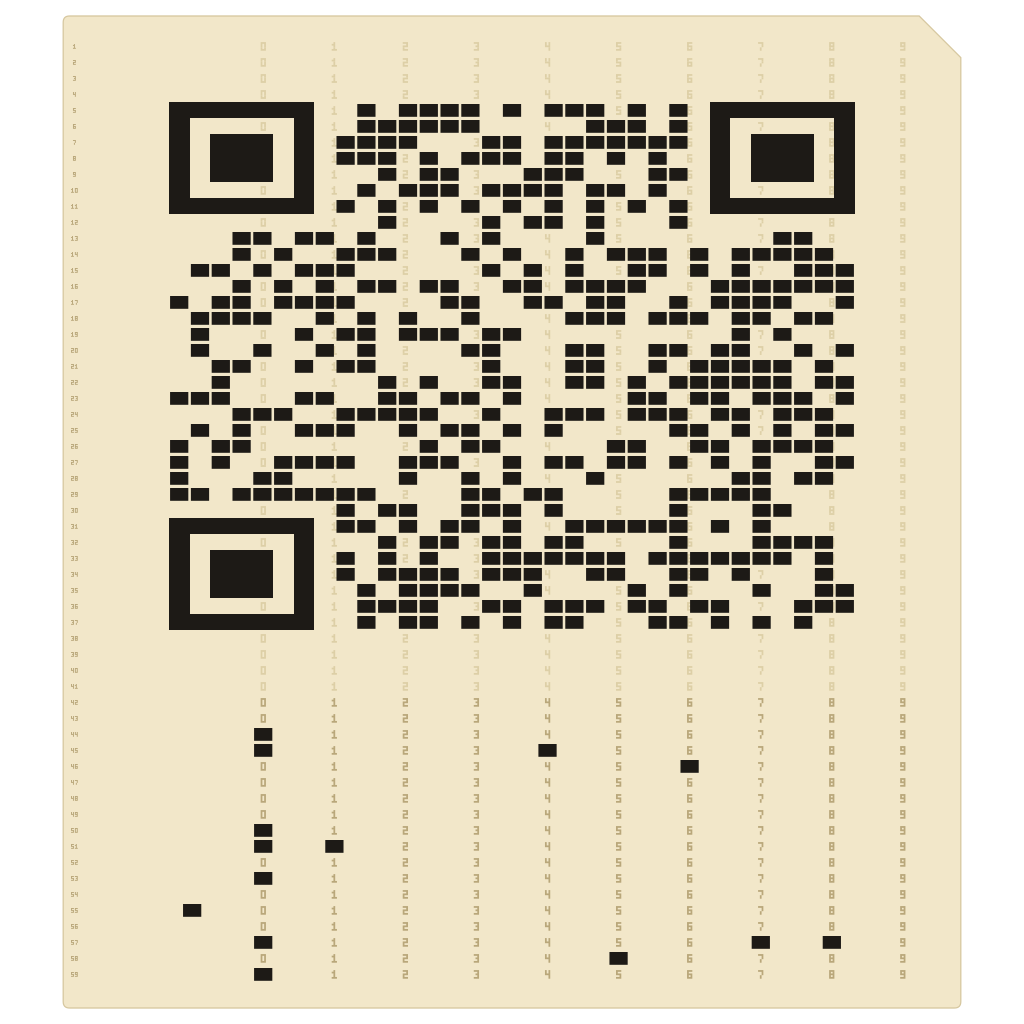
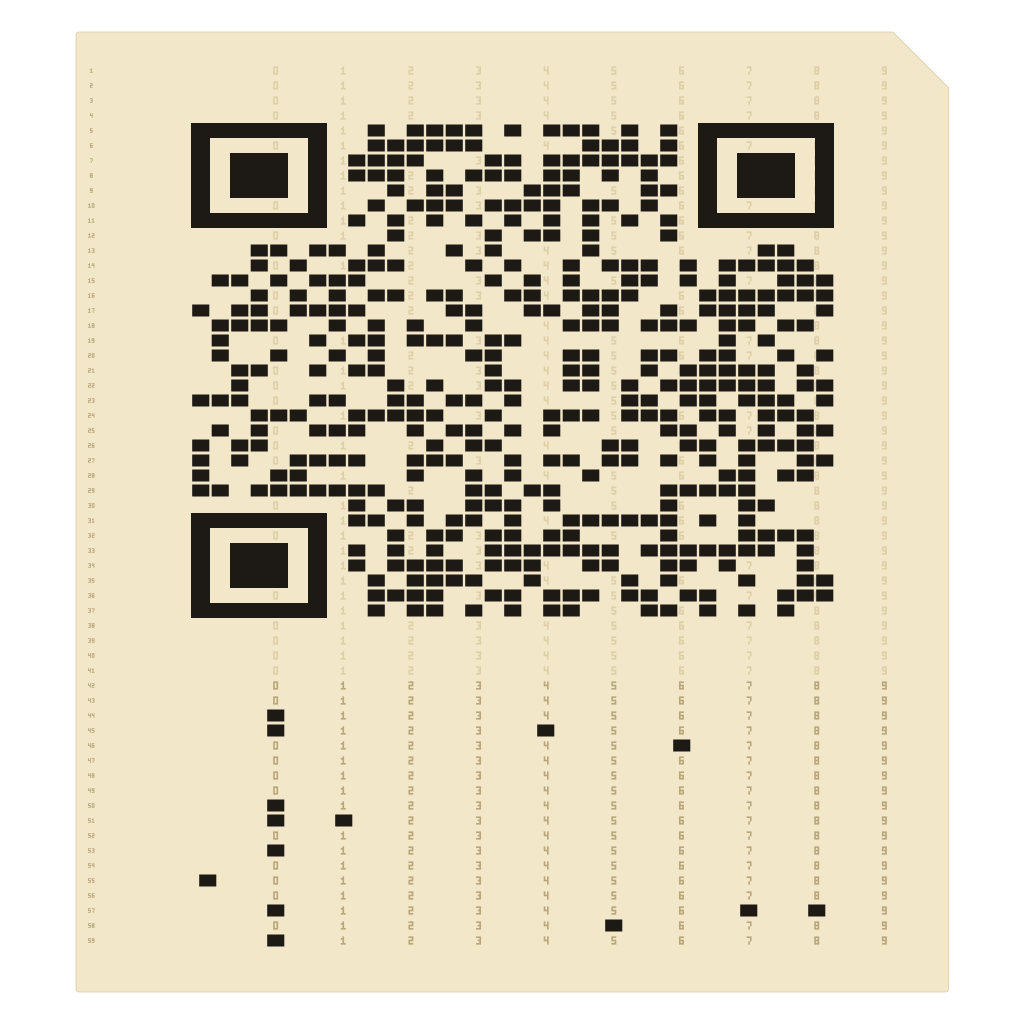
fix: the Punch Card keeps one shape at every text length

diff --git a/src/cards.ts b/src/cards.ts
@@ -1,12 +1,12 @@
 // Punch Card (the mjs collection) and Scantron (merichar). Both keep the
-// code dark on light, lay out in module units with whole pixels per module
-// and letter their own lines inside their designs, so the image stays
-// square.
+// code dark on light with whole pixels per module and letter their own lines
+// inside their designs, so the image stays square.
 import type { BitMatrix } from "qrcode";
 import { CAP, emFor, ems, lettering, round } from "./lettering";
 import { PIXEL_FONT, PIXEL_HEIGHT, PIXEL_WIDTH } from "./pixelfont";
 import { fit, type Lines } from "./screens";
 import { darkAt, svgOpen, unit } from "./boards";
+import { MIN_MODULE } from "./styles";
 
 // Characters in the pixel font, `pixel` modules per font pixel, the line's
 // left end at x and its top at y; only the rows `from` to `to` of each cell
@@ -79,7 +79,7 @@ const UNDER = "#ddcfa6";
 // each slot leaves `gapX` and `gapY` of card between it and the next. With
 // `solid` set to "reserved", the finder, timing and alignment patterns are
 // punched whole; set to "finders", only the three corner squares.
-// `rows` is the card's length in columns, as a share of its width.
+// `length` is the card's length as a share of its width.
 export const PUNCH: {
   stretch: number;
   gapX: number;
@@ -90,33 +90,57 @@ export const PUNCH: {
 // Whether a module is in one of the three corner squares (with its ring)
 const inFinder = (n: number, x: number, y: number) =>
   (x < 7 && y < 7) || (x >= n - 7 && y < 7) || (x < 7 && y >= n - 7);
+// The card's fixed layout, in hundredths of its width: the side margins, the
+// band for a line of type, the band without one and the clipped corner; and
+// `room`, the fewest rows of data under the code, in modules
+const CARD = { pad: 3.5, typeRow: 6.4, edge: 3.5, clip: 6.4, room: 6 };
+// The card is the same shape and size in the image whatever the text: its
+// width and length are fixed shares of the image, and the code fits inside it
+// with whole pixels per module, so a longer text makes the slots smaller, not
+// the card different. The space under the code is keypunched data.
+function cardBox(size: number) {
+  const { length } = PUNCH,
+    height = Math.floor((size * 105) / 112),
+    width = height / length;
+  return { width, height, u: width / 100 };
+}
+function moduleFor(q: number, u: number, top: number, bottom: number) {
+  const { stretch: s } = PUNCH;
+  return Math.floor(
+    Math.min(((100 - 2 * CARD.pad) * u) / (q * s), ((110 - top - bottom) * u) / (q + CARD.room)),
+  );
+}
 export function punchCard(modules: BitMatrix, size: number, lines: Lines) {
-  const { stretch: s, gapX, gapY, solid, length } = PUNCH,
+  const { stretch: s, gapX, gapY, solid } = PUNCH,
     n = modules.size,
     q = n + 8,
-    pad = 1.4,
-    typeRow = 2.6,
-    top = lines.above ? typeRow : 1.4,
-    cardWidth = round(q * s + 2 * pad),
-    cardHeight = Math.max(
-      Math.round(cardWidth * length),
-      Math.ceil(top + q + 6 + (lines.below ? typeRow : 1.4)),
-    ),
-    span = cardHeight + 1,
-    k = fit("punch-card", span, size),
-    left = round((size - cardWidth * k) / 2),
-    topPx = Math.round((size - cardHeight * k) / 2),
+    top = lines.above ? CARD.typeRow : CARD.edge,
+    bottom = lines.below ? CARD.typeRow : CARD.edge;
+  if (!Number.isInteger(size) || size > 2048) fit("punch-card", 1, size);
+  // The smallest width with at least MIN_MODULE pixels per module
+  let minimum = 64;
+  while (moduleFor(q, cardBox(minimum).u, top, bottom) < MIN_MODULE["punch-card"]) minimum++;
+  if (size < minimum) fit("punch-card", minimum / MIN_MODULE["punch-card"], size);
+  const { width: cardWidth, height: cardHeight, u } = cardBox(size),
+    k = moduleFor(q, u, top, bottom),
+    // A slot's horizontal pitch
+    w = s * k,
+    left = Math.round((size - cardWidth) / 2),
+    topPx = Math.round((size - cardHeight) / 2),
     dark = darkAt(modules),
-    ox = pad + 4 * s,
-    oy = top + 4,
-    clip = 2.6;
+    // The code (with its quiet zone) centered across the card, its rows
+    // starting under the top band
+    ox = Math.round((cardWidth - n * w) / 2),
+    oy = Math.round(top * u) + 4 * k,
+    clip = CARD.clip * u,
+    r = 0.4 * u;
   // The card, its top right corner cut
-  const card = `<path d="M.4 0H${round(cardWidth - clip)}L${cardWidth} ${clip}V${round(cardHeight - 0.4)}q0 .4-.4 .4H.4q-.4 0-.4-.4V.4q0-.4 .4-.4z" fill="${STOCK}" stroke="${STOCK_EDGE}" stroke-width=".08"/>`;
+  const card = `<path d="M${round(r)} 0H${round(cardWidth - clip)}L${round(cardWidth)} ${round(clip)}V${round(cardHeight - r)}q0 ${round(r)}-${round(r)} ${round(r)}H${round(r)}q-${round(r)} 0-${round(r)}-${round(r)}V${round(r)}q0-${round(r)} ${round(r)}-${round(r)}z" fill="${STOCK}" stroke="${STOCK_EDGE}" stroke-width="${round(0.08 * u)}"/>`;
   // A slot over a module's cell, or the cell whole
   const slot = (x: number, y: number, whole = false) => {
-    const gx = whole ? 0 : gapX / 2,
-      gy = whole ? 0 : gapY / 2;
-    return `M${round(x + gx)} ${round(y + gy)}h${round(s - 2 * gx)}v${round(1 - 2 * gy)}h-${round(s - 2 * gx)}z`;
+    const gx = whole ? 0 : (gapX * k) / 2,
+      gy = whole ? 0 : (gapY * k) / 2;
+    return `M${round(x + gx)} ${round(y + gy)}h${round(w - 2 * gx)}v${round(k - 2 * gy)}h-${round(w - 2 * gx)}z`;
   };
   let holes = "",
     whole = "";
@@ -127,8 +151,8 @@ export function punchCard(modules: BitMatrix, size: number, lines: Lines) {
           (solid === "reserved" && modules.isReserved(y, x)) ||
           (solid === "finders" && inFinder(n, x, y))
         )
-          whole += slot(ox + x * s, oy + y, true);
-        else holes += slot(ox + x * s, oy + y);
+          whole += slot(ox + x * w, oy + y * k, true);
+        else holes += slot(ox + x * w, oy + y * k);
       }
   // The data's punches vary with the code, the same for the same text:
   // seeded from the code's modules
@@ -155,18 +179,18 @@ export function punchCard(modules: BitMatrix, size: number, lines: Lines) {
   };
   // The twelve lanes across the card, the 0 to 9 lanes printed with their
   // digits in every column, a code row to a column
-  const laneLeft = pad,
-    lane = (cardWidth - 2 * pad) / 12,
-    firstRow = top,
-    columns = Math.floor(cardHeight - firstRow - (lines.below ? typeRow : 1.4)),
-    dot = Math.min(lane * 0.07, 0.11);
+  const laneLeft = CARD.pad * u,
+    lane = ((100 - 2 * CARD.pad) * u) / 12,
+    firstRow = Math.round(top * u),
+    columns = Math.floor((cardHeight - firstRow - bottom * u) / k),
+    dot = Math.min(lane * 0.07, 0.11 * k);
   let print = "",
     under = "";
   for (let c = 0; c < columns; c++) {
-    const cy = firstRow + c + 0.5,
+    const cy = firstRow + (c + 0.5) * k,
       inCode = c < q;
-    for (let r = 2; r < 12; r++) {
-      const digit = tiny(String(r - 2), laneLeft + (r + 0.5) * lane, cy, dot);
+    for (let lr = 2; lr < 12; lr++) {
+      const digit = tiny(String(lr - 2), laneLeft + (lr + 0.5) * lane, cy, dot);
       if (inCode) under += digit;
       else print += digit;
     }
@@ -175,25 +199,26 @@ export function punchCard(modules: BitMatrix, size: number, lines: Lines) {
     // or 0), now and then a third punch in row 8, and some columns blank.
     // Only the lanes within the code's left and right edges are punched.
     if (!inCode)
-      for (const r of keypunch()) {
-        const x = laneLeft + (r + 0.5) * lane - s / 2;
-        if (x >= ox && x + s <= ox + n * s) holes += slot(x, firstRow + c);
+      for (const lr of keypunch()) {
+        const x = Math.round(laneLeft + (lr + 0.5) * lane - w / 2);
+        if (x >= ox && x + w <= ox + n * w) holes += slot(x, firstRow + c * k);
       }
     // Column numbers down the left edge
-    print += tiny(String(c + 1), pad * 0.5, cy, dot * 0.55);
+    print += tiny(String(c + 1), laneLeft * 0.5, cy, dot * 0.55);
   }
   // The keypunch's printing: characters along the top and bottom edges
   let type = "";
+  const em = u * (CARD.typeRow / 2.6);
   const typeLine = (text: string, y: number) => {
     const pixel = Math.min(
-      1.5 / PIXEL_HEIGHT,
-      (cardWidth - clip - 2) / ([...text].length * PIXEL_WIDTH),
+      (1.5 * em) / PIXEL_HEIGHT,
+      (cardWidth - clip - 2 * em) / ([...text].length * PIXEL_WIDTH),
     );
-    type += pixelText(text, 1, y, pixel, 1, 13);
+    type += pixelText(text, em, y, pixel, 1, 13);
   };
-  if (lines.above) typeLine(lines.above, 0.6);
-  if (lines.below) typeLine(lines.below, cardHeight - typeRow + 0.7);
-  return `${svgOpen(size, "white")}<g transform="translate(${left} ${topPx}) scale(${k})">${card}<path d="${under}" fill="${UNDER}"/><path d="${print}" fill="${PRINT}"/><path d="${holes}" fill="${HOLE}"/>${whole ? `<path d="${whole}" fill="${HOLE}" shape-rendering="crispEdges"/>` : ""}${type ? `<path d="${type}" fill="${TYPE}"/>` : ""}</g></svg>`;
+  if (lines.above) typeLine(lines.above, 0.6 * em);
+  if (lines.below) typeLine(lines.below, cardHeight - CARD.typeRow * u + 0.7 * em);
+  return `${svgOpen(size, "white")}<g transform="translate(${left} ${topPx})">${card}<path d="${under}" fill="${UNDER}"/><path d="${print}" fill="${PRINT}"/><path d="${holes}" fill="${HOLE}"/>${whole ? `<path d="${whole}" fill="${HOLE}" shape-rendering="crispEdges"/>` : ""}${type ? `<path d="${type}" fill="${TYPE}"/>` : ""}</g></svg>`;
 }
 
 // Scantron: a machine-scored quiz strip, white with green printing: a

diff --git a/test/qr.test.ts b/test/qr.test.ts
@@ -286,6 +286,36 @@ describe("unlisted collections", () => {
       expect(await decode(image)).toBe(text);
     });
 
+  it("keeps the punch card the same size whatever the text's length", async () => {
+    // The box around everything that isn't the white background
+    const cardBox = async (image: Buffer) => {
+      const { data, info } = await sharp(image)
+        .greyscale()
+        .raw()
+        .toBuffer({ resolveWithObject: true });
+      let [left, top, right, bottom] = [info.width, info.height, -1, -1];
+      for (let y = 0; y < info.height; y++)
+        for (let x = 0; x < info.width; x++)
+          if (data[y * info.width + x] < 250) {
+            left = Math.min(left, x);
+            right = Math.max(right, x);
+            top = Math.min(top, y);
+            bottom = Math.max(bottom, y);
+          }
+      return [left, top, right, bottom];
+    };
+    for (const lines of [{}, { above: "cd www.cs.cmu.edu", below: "Welcome to SCS" }]) {
+      const boxes = new Set<string>();
+      for (const length of [1, 10, 24, 27, 50, 100, 200, 500])
+        boxes.add(
+          String(
+            await cardBox(await qrImage("a".repeat(length), "punch-card", 1024, "png", lines)),
+          ),
+        );
+      expect([...boxes]).toHaveLength(1);
+    }
+  });
+
   it("renders unlisted styles by name in image URLs but lists only public ones", async () => {
     const app = createApp();
     const image = await request(app)
